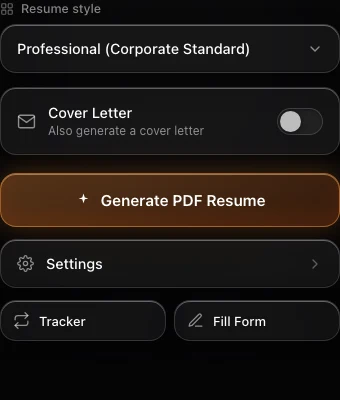
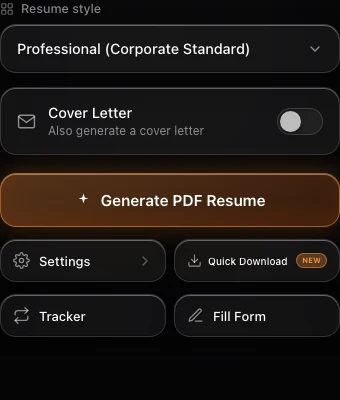
feat(popup): add Quick Download button (v9.0)
Adds a Quick Download button beside Settings that exports the selected
resume as a professional PDF instantly, with no AI call, no job page
and no API key. It renders straight from resumes[].jsonContent (the
schema extractResumeProfileJson already produces), so it works before
setup and costs 0 tokens.

Settings now shares a two-up row instead of spanning full width. All
four bottom buttons stay identical at 166x43px via flex:1 plus an
explicit min-height (the badge-bearing rows were 2px taller). "Quick
Download" cannot fit beside its NEW badge at 13px, so the label only
shrinks while the badge is on screen and animates back on first hover.

Also fixes two pre-existing capture-tour.mjs bugs that made
`npm run build:tour` fail silently: the finally block's process.exit(0)
swallowed every crash (deleting 12 of 13 frames), and the What's New
modal blocked every scripted click whenever its version moved ahead
of the seed. Frames are regenerated and the settingsBtn hotspot
re-tracked.

diff --git a/popup.html b/popup.html
@@ -771,6 +771,7 @@
       margin-top: 0;
       flex: 1;
       min-width: 0;
+      min-height: 43px;
       padding: 11px 12px;
       font-size: 13px;
       gap: 8px;
@@ -789,11 +790,38 @@
       overflow: hidden;
       text-overflow: ellipsis;
       white-space: nowrap;
+      transition: font-size 200ms var(--ease);
     }
 
     .list-row-pair .tracker-new-badge {
       padding: 2px 7px;
       font-size: 8.5px;
+    }
+
+    /* "Quick Download" cannot fit next to the NEW badge at full size, so it shrinks
+       only while the badge is on screen and snaps back the moment it is dismissed. */
+    #quickDownloadBtn.has-badge {
+      gap: 4px;
+    }
+
+    #quickDownloadBtn.has-badge .list-row-left {
+      gap: 6px;
+    }
+
+    #quickDownloadBtn.has-badge .row-icon {
+      width: 15px;
+      height: 15px;
+    }
+
+    #quickDownloadBtn.has-badge .list-row-label {
+      font-size: 10px;
+    }
+
+    #quickDownloadNewBadge {
+      margin-left: 0;
+      padding: 1px 5px;
+      font-size: 7.5px;
+      letter-spacing: 0;
     }
 
     .list-row-left {
@@ -1396,15 +1424,25 @@
     <span id="generateLabel">Generate PDF Resume</span>
   </button>
 
-  <button id="settingsBtn" class="list-row glass" type="button">
-    <span class="list-row-left">
-      <svg class="row-icon" viewBox="0 0 24 24" fill="none" stroke="currentColor" stroke-width="1.8" stroke-linecap="round" stroke-linejoin="round" aria-hidden="true"><circle cx="12" cy="12" r="3"/><path d="M19.4 15a1.65 1.65 0 0 0 .33 1.82l.06.06a2 2 0 1 1-2.83 2.83l-.06-.06a1.65 1.65 0 0 0-1.82-.33 1.65 1.65 0 0 0-1 1.51V21a2 2 0 1 1-4 0v-.09A1.65 1.65 0 0 0 9 19.4a1.65 1.65 0 0 0-1.82.33l-.06.06a2 2 0 1 1-2.83-2.83l.06-.06a1.65 1.65 0 0 0 .33-1.82 1.65 1.65 0 0 0-1.51-1H3a2 2 0 1 1 0-4h.09A1.65 1.65 0 0 0 4.6 9a1.65 1.65 0 0 0-.33-1.82l-.06-.06a2 2 0 1 1 2.83-2.83l.06.06a1.65 1.65 0 0 0 1.82.33H9a1.65 1.65 0 0 0 1-1.51V3a2 2 0 1 1 4 0v.09a1.65 1.65 0 0 0 1 1.51 1.65 1.65 0 0 0 1.82-.33l.06-.06a2 2 0 1 1 2.83 2.83l-.06.06a1.65 1.65 0 0 0-.33 1.82V9a1.65 1.65 0 0 0 1.51 1H21a2 2 0 1 1 0 4h-.09a1.65 1.65 0 0 0-1.51 1z"/></svg>
-      <span>Settings</span>
-    </span>
-    <svg class="chev" viewBox="0 0 24 24" fill="none" stroke="currentColor" stroke-width="2" stroke-linecap="round" stroke-linejoin="round" aria-hidden="true"><polyline points="9 6 15 12 9 18"/></svg>
-  </button>
-
   <div class="list-row-pair">
+    <button id="settingsBtn" class="list-row glass" type="button">
+      <span class="list-row-left">
+        <svg class="row-icon" viewBox="0 0 24 24" fill="none" stroke="currentColor" stroke-width="1.8" stroke-linecap="round" stroke-linejoin="round" aria-hidden="true"><circle cx="12" cy="12" r="3"/><path d="M19.4 15a1.65 1.65 0 0 0 .33 1.82l.06.06a2 2 0 1 1-2.83 2.83l-.06-.06a1.65 1.65 0 0 0-1.82-.33 1.65 1.65 0 0 0-1 1.51V21a2 2 0 1 1-4 0v-.09A1.65 1.65 0 0 0 9 19.4a1.65 1.65 0 0 0-1.82.33l-.06.06a2 2 0 1 1-2.83-2.83l.06-.06a1.65 1.65 0 0 0 .33-1.82 1.65 1.65 0 0 0-1.51-1H3a2 2 0 1 1 0-4h.09A1.65 1.65 0 0 0 4.6 9a1.65 1.65 0 0 0-.33-1.82l-.06-.06a2 2 0 1 1 2.83-2.83l.06.06a1.65 1.65 0 0 0 1.82.33H9a1.65 1.65 0 0 0 1-1.51V3a2 2 0 1 1 4 0v.09a1.65 1.65 0 0 0 1 1.51 1.65 1.65 0 0 0 1.82-.33l.06-.06a2 2 0 1 1 2.83 2.83l-.06.06a1.65 1.65 0 0 0-.33 1.82V9a1.65 1.65 0 0 0 1.51 1H21a2 2 0 1 1 0 4h-.09a1.65 1.65 0 0 0-1.51 1z"/></svg>
+        <span class="list-row-label">Settings</span>
+      </span>
+      <svg class="chev" viewBox="0 0 24 24" fill="none" stroke="currentColor" stroke-width="2" stroke-linecap="round" stroke-linejoin="round" aria-hidden="true"><polyline points="9 6 15 12 9 18"/></svg>
+    </button>
+
+    <button id="quickDownloadBtn" class="list-row glass" type="button">
+      <span class="list-row-left">
+        <svg class="row-icon" viewBox="0 0 24 24" fill="none" stroke="currentColor" stroke-width="1.8" stroke-linecap="round" stroke-linejoin="round" aria-hidden="true"><path d="M21 15v4a2 2 0 0 1-2 2H5a2 2 0 0 1-2-2v-4"/><polyline points="7 10 12 15 17 10"/><line x1="12" y1="15" x2="12" y2="3"/></svg>
+        <span class="list-row-label">Quick Download</span>
+      </span>
+      <span id="quickDownloadNewBadge" class="tracker-new-badge">New</span>
+    </button>
+  </div>
+
+  <div class="list-row-pair feature-pair">
     <button id="trackerBtn" class="list-row glass" type="button">
       <span class="list-row-left">
         <svg class="row-icon" viewBox="0 0 24 24" fill="none" stroke="currentColor" stroke-width="1.8" stroke-linecap="round" stroke-linejoin="round" aria-hidden="true"><path d="M17 1l4 4-4 4"/><path d="M3 11V9a4 4 0 0 1 4-4h14"/><path d="M7 23l-4-4 4-4"/><path d="M21 13v2a4 4 0 0 1-4 4H3"/></svg>
@@ -1478,18 +1516,18 @@
       <div class="onboarding-icon" aria-hidden="true">
         <svg width="40" height="40" viewBox="0 0 24 24" fill="none" stroke="currentColor" stroke-width="1.8" stroke-linecap="round" stroke-linejoin="round"><path d="M12 3v4"/><path d="M12 17v4"/><path d="M3 12h4"/><path d="M17 12h4"/><path d="m5.6 5.6 2.8 2.8"/><path d="m15.6 15.6 2.8 2.8"/><path d="m18.4 5.6-2.8 2.8"/><path d="m8.4 15.6-2.8 2.8"/></svg>
       </div>
-      <h2>New in <span id="whatsNewVersion"></span> — Stay signed in</h2>
+      <h2>New in <span id="whatsNewVersion"></span> — Quick Download</h2>
       <p class="error-message">
-        Your session now stays active much longer — sign in once and PocketResume keeps you signed in until you sign out yourself.
+        Get your resume as a PDF in one click — no job page, no AI, no waiting.
       </p>
       <ul class="whatsnew-collected">
-        <li><strong>Long-lived sessions</strong> — no more surprise sign-outs between visits</li>
-        <li><strong>Accurate Pro state</strong> — the account badge reflects your real sign-in status</li>
-        <li><strong>Safer Form Filler</strong> — the Pro gate no longer uses a stale cached state</li>
-        <li>Every Pro feature stays free until <strong>Oct 31</strong></li>
+        <li><strong>Quick Download</strong> — instantly exports your saved resume as a professional PDF</li>
+        <li><strong>No AI involved</strong> — renders straight from your extracted resume JSON</li>
+        <li><strong>Works before setup</strong> — no API key needed</li>
+        <li>Needs your resume extracted first (Extract JSON in Settings)</li>
       </ul>
       <div class="onboarding-actions">
-        <button id="whatsNewPlansBtn" class="cloud-primary-btn">See plans</button>
+        <button id="whatsNewPlansBtn" class="cloud-primary-btn">Try Quick Download</button>
         <button id="whatsNewGotBtn" class="cloud-secondary-btn">Got it</button>
       </div>
     </div>

diff --git a/popup.js b/popup.js
@@ -9,6 +9,7 @@ document.addEventListener('DOMContentLoaded', () => {
   let lastError = '';
   let lastErrorRaw = '';
   const settingsBtn = document.getElementById('settingsBtn');
+  const quickDownloadBtn = document.getElementById('quickDownloadBtn');
   const resumeType = document.getElementById('resumeType');
   const resumeSelectorDiv = document.getElementById('resumeSelector');
   const coverLetterToggle = document.getElementById('coverLetterToggle');
@@ -256,6 +257,52 @@ document.addEventListener('DOMContentLoaded', () => {
   settingsBtn.addEventListener('click', () => {
     chrome.runtime.openOptionsPage();
   });
+
+  // --- Quick Download: render the saved resume JSON as a professional PDF (no AI) ---
+  if (quickDownloadBtn) {
+    quickDownloadBtn.addEventListener('click', () => {
+      chrome.storage.local.get(['resumes', 'selectedResumeId', 'userProfile'], (data) => {
+        let resumes = Array.isArray(data.resumes) ? data.resumes.slice() : [];
+        if (resumes.length === 0 && data.userProfile) {
+          resumes = [{ id: 'migrated_1', label: 'Resume 1', content: data.userProfile }];
+        }
+
+        if (resumes.length === 0) {
+          setError('Quick Download needs a saved resume. Open Settings to add one.');
+          return;
+        }
+
+        const selected = resumes.find((r) => r.id === data.selectedResumeId) || resumes[0];
+        const rawJson = selected && selected.jsonContent ? String(selected.jsonContent).trim() : '';
+        if (!rawJson) {
+          setError('Quick Download needs your resume JSON. Open Settings and click "Extract JSON" first.');
+          return;
+        }
+
+        let resumeData;
+        try {
+          let clean = rawJson;
+          if (clean.startsWith('```json')) {
+            clean = clean.replace(/^```json/, '').replace(/```$/, '');
+          } else if (clean.startsWith('```')) {
+            clean = clean.replace(/^```/, '').replace(/```$/, '');
+          }
+          resumeData = JSON.parse(sanitizeJsonControlChars(clean));
+        } catch (e) {
+          console.error('Quick Download JSON Parse Error:', e);
+          setError('Could not read your saved resume JSON. Open Settings and re-run "Extract JSON".');
+          return;
+        }
+
+        try {
+          generatePDF(resumeData, 'professional');
+        } catch (e) {
+          console.error('Quick Download Error:', e);
+          setError(e.message || 'Quick Download failed. Please try again.');
+        }
+      });
+    });
+  }
 
   // --- Setup / onboarding card ---
   function setSetupStepDone(stepId, done) {
@@ -553,13 +600,31 @@ document.addEventListener('DOMContentLoaded', () => {
     }
   });
 
+  // --- NEW badge on Quick Download (permanently dismissed after first hover) ---
+  const quickDownloadNewBadge = document.getElementById('quickDownloadNewBadge');
+  chrome.storage.local.get('quickDownloadNewBadgeDismissed', (data) => {
+    if (data.quickDownloadNewBadgeDismissed) {
+      if (quickDownloadNewBadge) quickDownloadNewBadge.remove();
+    } else if (quickDownloadNewBadge) {
+      quickDownloadBtn.classList.add('has-badge');
+      const dismiss = () => {
+        quickDownloadNewBadge.classList.add('gone');
+        quickDownloadNewBadge.addEventListener('transitionend', () => quickDownloadNewBadge.remove(), { once: true });
+        quickDownloadBtn.classList.remove('has-badge');
+        chrome.storage.local.set({ quickDownloadNewBadgeDismissed: true });
+      };
+      quickDownloadBtn.addEventListener('mouseenter', dismiss, { once: true });
+      quickDownloadBtn.addEventListener('focus', dismiss, { once: true });
+    }
+  });
+
   // --- What's New modal (once per version) ---
   const whatsNewModal = document.getElementById('whatsNewModal');
   const whatsNewGotBtn = document.getElementById('whatsNewGotBtn');
   const whatsNewPlansBtn = document.getElementById('whatsNewPlansBtn');
   const whatsNewVersionEl = document.getElementById('whatsNewVersion');
-  const ANNOUNCEMENT_VERSION = '8.9';
-  const ANNOUNCEMENT_SEEN_VALUE = '8.9';
+  const ANNOUNCEMENT_VERSION = '9.0';
+  const ANNOUNCEMENT_SEEN_VALUE = '9.0';
 
   function startProfileSetup() {
     chrome.storage.local.set({ appProfileOnboarding: { active: true } }, () => {
@@ -582,7 +647,7 @@ document.addEventListener('DOMContentLoaded', () => {
   if (whatsNewPlansBtn) {
     whatsNewPlansBtn.addEventListener('click', () => {
       dismissWhatsNew();
-      chrome.tabs.create({ url: chrome.runtime.getURL('options.html#cloud-pricing') });
+      if (quickDownloadBtn) quickDownloadBtn.click();
     });
   }
 
@@ -870,6 +935,9 @@ document.addEventListener('DOMContentLoaded', () => {
     }
     if (/no active tab/i.test(lower)) {
       return 'No active tab found. Open the page with the form and try again.';
+    }
+    if (/quick download|extract json/i.test(lower)) {
+      return msg;
     }
     if (/parse|invalid json|unexpected token|json/i.test(lower)) {
       return 'Model returned invalid data. Please try again.';

diff --git a/assets/tour/frames.js b/assets/tour/frames.js
@@ -14,8 +14,8 @@ window.PocketResumeTourAssets = {
      0.5
     ],
     "settingsBtn": [
-     0.5,
-     0.659
+     0.244,
+     0.651
     ]
    },
    "clipH": 400
@@ -137,7 +137,7 @@ window.PocketResumeTourAssets = {
      0.499
     ],
     "atsBtn": [
-     0.8,
+     0.802,
      0.499
     ]
    },
@@ -155,7 +155,7 @@ window.PocketResumeTourAssets = {
    "hotspots": {
     "autofillBtn": [
      0.29,
-     0.5
+     0.499
     ]
    },
    "clipH": 300

diff --git a/AGENTS.md b/AGENTS.md
@@ -189,6 +189,15 @@ One-time onboarding for Form Filler: the user answers common application-form qu
 
 Safety rules (enforced in `form-filler.js` + prompt): never submits the form, never overwrites already-filled fields, never unchecks anything the user already ticked, checkbox/consent widgets with consent-style labels (consent/agree/terms/privacy/newsletter/marketing/subscribe/opt-in/gdpr/cookies) are never touched, skips hidden/disabled/readonly/captcha/search fields, caps at 30 fields. Known gap: custom div widgets (`[role="checkbox"]`/`[role="radio"]` without real inputs, legacy Workday) are not detected.
 
+### Quick Download flow (v9.0)
+
+1. User clicks `#quickDownloadBtn` (popup button paired with Settings in the same `.list-row-pair` row). No config gate, no API key, no active-tab requirement — it stays clickable even when Generate is disabled by onboarding.
+2. The popup reads `{ resumes, selectedResumeId, userProfile }` from `chrome.storage.local`, resolves the selected resume (legacy `userProfile` fallback), and takes `resume.jsonContent` — the same schema `extractResumeProfileJson` produces and `generatePDF` consumes. Markdown fences are stripped before `JSON.parse` (same helper the Generate path uses).
+3. It calls `generatePDF(resumeData, 'professional')` directly in the popup. **No AI call, no `START_GENERATION`, no cover letter** — the style is always the professional PocketResume layout, regardless of the popup's style selector. Costs 0 tokens.
+4. Error paths go through `setError` (red glow + `?` → error modal with **Open Provider Settings**, which appears because the messages mention Settings): no resumes at all, no `jsonContent` (prompt to run **Extract JSON**), or unparseable JSON. `mapErrorMessage` has a `/quick download|extract json/i` pass-through so these user-facing messages are not rewritten by the generic "invalid JSON" rule.
+5. The What's New modal's primary button (`#whatsNewPlansBtn`) dismisses the modal and triggers the same handler; its "New" badge (`#quickDownloadNewBadge`) is removed on first hover/focus and persisted via `quickDownloadNewBadgeDismissed`, matching the Tracker/Fill Form badges.
+6. Layout note: all four bottom buttons (Settings, Quick Download, Tracker, Fill Form) stay identical at **166×43px** — `.list-row-pair .list-row` carries `flex: 1` + `min-height: 43px` so the badge-bearing rows (43px) and the badge-less rows (41px) line up. "Quick Download" cannot fit next to its NEW badge in a 166px button, so while the badge is on screen the button carries `.has-badge`: label drops to **10px**, icon to 15px, row gap to 4px, and the badge shrinks to 7.5px. `popup.js` adds/removes `.has-badge` alongside the badge itself, so the first hover restores the full **13px** label in the same 200ms `font-size` transition that fades the badge.
+
 ## Resume styles & layout mapping
 
 Configured by `getResumeStyleConfig(...)` in `background.js`:
@@ -227,8 +236,9 @@ Important keys:
 - `appProfileOnboarding`: `{ active: boolean }` — trigger for the Form Filler setup spotlight tour (set by the popup, consumed by the options page)
 - `refineNudge`: `{ active: boolean }` — trigger for the v8.2 "Smarter Refine" spotlight on `#refineResumeBtn` (set by the popup's What's New modal via `startRefineNudge()`, consumed by the options page via `NUDGE_TOUR_STEPS` + a `'nudge'` tour mode)
 - `atsNudge`: `{ active: boolean }` — trigger for the v8.2 "Check ATS" spotlight on `#checkAtsBtn` (set by the popup's What's New modal via `startAtsNudge()`, consumed by the options page via `ATS_NUDGE_TOUR_STEPS` + an `'atsnudge'` tour mode)
-- `lastSeenAnnouncement`: last version whose What's New modal the user saw (`'8.7'` current)
+- `lastSeenAnnouncement`: last version whose What's New modal the user saw (`'9.0'` current)
 - `featureVideoDeclined`: boolean — user declined the one-time feature-tour video offer; prompt never reappears (header button still opens it)
+- `quickDownloadNewBadgeDismissed`: boolean — the Quick Download "New" badge is removed after the user's first hover/focus and never returns
 - `trackerPlanCache`: `{ proAccess, isPro, promoActive, signedIn, checkedAt }` — last Job Tracker access resolution, used for first paint / offline (ignored when `checkedAt` is older than 60 min)
 - `proAccessCache`: same shape as `trackerPlanCache` — last **signed-in** access resolution, written by `getAccessState()` (page + SW), cleared on sign-out, and removed by a Clerk `addListener` the moment the session ends. Background `getFormFillAccess()` falls back to it **only when the service-worker Clerk client has not resolved** (not initialised yet) and only while it is younger than 60 min — a definitive signed-out answer (`getAccessState().resolved === true`) clears the cache and blocks Pro, so stale signed-in state can never keep showing "Pro" after a session expiry.
 - `trackerLockDismissed`: boolean — user dismissed the Job Tracker lock banner

diff --git a/CHANGELOG.md b/CHANGELOG.md
@@ -11,6 +11,18 @@ Notes on history:
 
 ---
 
+## [9.0] — 2026-10-17
+
+### Added
+
+- **Quick Download** — a new popup button (paired with Settings) that instantly exports the selected saved resume as a professional PocketResume PDF. No job page, no AI call, and no API key required: it renders straight from the resume's extracted JSON (`resumes[].jsonContent`). If the resume JSON hasn't been extracted yet, it prompts the user to run **Extract JSON** in Settings. The button stays enabled even before setup.
+
+### Changed
+
+- **Settings row resized** — Settings now shares a two-up row with Quick Download (same pattern as Tracker / Fill Form) instead of spanning the full width.
+
+---
+
 ## [8.9] — 2026-10-16
 
 ### Fixed
